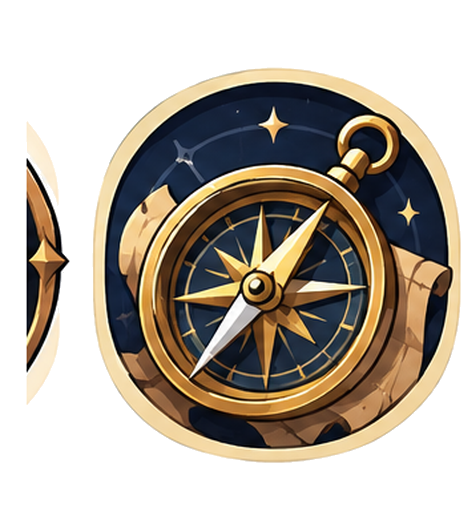
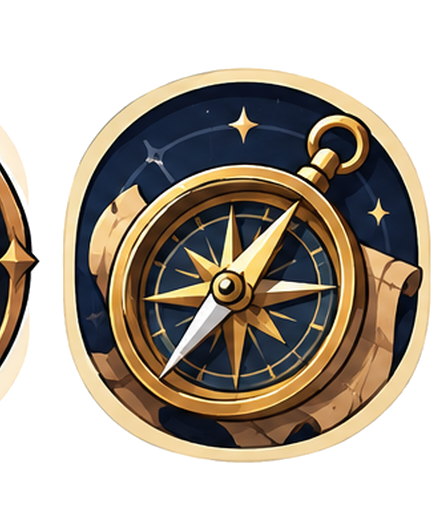
feat: 상세 페이지 리미티드 업적 표시 + legendary-explorer 이미지 크롭 수정
- 개요 탭: 트로피 아래에 리미티드 업적 카드 표시 (보유시)
- 업적 탭: 리미티드 업적 섹션 맨 앞에 추가
- legendary-explorer.png 왼쪽 돌출 부분 30px 크롭

diff --git a/app/ranking/person/[mainNickname]/page.tsx b/app/ranking/person/[mainNickname]/page.tsx
@@ -3,10 +3,12 @@
 import { useState, useEffect, useMemo } from "react";
 import { useParams, useRouter } from "next/navigation";
 import { computeAggregatedStats, loadGameRecords, loadNicknames, normalizeId, formatWinRate, getSeriesData } from "@/lib/stats";
-import type { NicknameEntry, PlayerStats, BadgeGrade, GameRecord } from "@/lib/types";
+import type { NicknameEntry, PlayerStats, BadgeGrade, GameRecord, LimitedTitle } from "@/lib/types";
 import { WinRateTrend } from "@/components/WinRateTrend";
 import { ChampionPortrait } from "@/components/ChampionPortrait";
 import { TrophyShowcase } from "@/components/TrophyBadge";
+import { LimitedTitleIcon, useIsDarkTheme } from "@/components/LimitedTitleBadge";
+import { LIMITED_TITLE_DEFS, getLimitedTitleDef } from "@/lib/limitedTitles";
 
 const POSITION_ORDER = ["탑", "정글", "미드", "원딜", "서포터"];
 const ROLE_COLORS: Record<string, string> = {
@@ -42,6 +44,14 @@ export default function PersonDetailPage() {
   const [tab, setTab] = useState<TabKey>("overview");
   const [loading, setLoading] = useState(true);
   const [winTrend, setWinTrend] = useState<{ date: string; rate: number; won: boolean }[]>([]);
+  const [limitedTitles, setLimitedTitles] = useState<LimitedTitle[]>([]);
+  const isDark = useIsDarkTheme();
+
+  useEffect(() => {
+    fetch("/api/limited-titles", { cache: "no-store" }).then(r => r.json()).then(d => {
+      setLimitedTitles(Array.isArray(d) ? d : []);
+    }).catch(() => {});
+  }, [mainNickname]);
 
   useEffect(() => {
     Promise.all([loadGameRecords(), loadNicknames()]).then(([records, nicknameEntries]) => {
@@ -203,6 +213,36 @@ export default function PersonDetailPage() {
           <TrophyShowcase trophies={entry.trophies!} />
         </div>
       )}
+
+      {(() => {
+        const myTitles = limitedTitles.filter(t => t.holder === entry.nickname);
+        if (myTitles.length === 0) return null;
+        return (
+          <div className="p-4 rounded-lg border" style={{ background: "var(--panel)", borderColor: "var(--border)" }}>
+            <div className="text-xs font-semibold mb-3" style={{ color: "var(--text-muted)" }}>리미티드 업적</div>
+            <div className="flex flex-wrap gap-3">
+              {myTitles.map(t => {
+                const def = getLimitedTitleDef(t.id);
+                if (!def) return null;
+                return (
+                  <div key={t.id} title={def.description}
+                    className="flex items-center gap-2 px-3 py-2 rounded-xl"
+                    style={{
+                      background: `linear-gradient(var(--panel-alt), var(--panel-alt)) padding-box, linear-gradient(135deg, ${def.color}, ${def.accentColor}) border-box`,
+                      border: "1.5px solid transparent",
+                    }}>
+                    <LimitedTitleIcon def={def} size={28} isDark={isDark} />
+                    <div>
+                      <div className="text-xs font-black" style={{ color: def.color }}>{def.name}</div>
+                      <div className="text-xs" style={{ color: "var(--text-dim)", fontSize: 10 }}>{t.date}</div>
+                    </div>
+                  </div>
+                );
+              })}
+            </div>
+          </div>
+        );
+      })()}
 
       <WinRateTrend data={winTrend} />
 
@@ -662,8 +702,43 @@ export default function PersonDetailPage() {
       );
     };
 
+    const myLimitedTitles = limitedTitles.filter(t => t.holder === entry.nickname);
+
     return (
       <div className="space-y-4">
+        {myLimitedTitles.length > 0 && (
+          <>
+            <div className="text-xs font-bold" style={{ color: "var(--accent)" }}>리미티드 업적 ({myLimitedTitles.length}개)</div>
+            <div className="grid grid-cols-1 md:grid-cols-2 gap-3">
+              {myLimitedTitles.map(t => {
+                const def = getLimitedTitleDef(t.id);
+                if (!def) return null;
+                return (
+                  <div key={t.id} className="p-4 rounded-lg border flex items-center gap-3"
+                    style={{
+                      background: `linear-gradient(var(--panel), var(--panel)) padding-box, linear-gradient(135deg, ${def.color}44, ${def.accentColor}44) border-box`,
+                      border: "1.5px solid transparent",
+                      boxShadow: `0 0 12px ${def.color}22`,
+                    }}>
+                    <div className="w-12 h-12 flex items-center justify-center rounded-full flex-shrink-0"
+                      style={{ background: def.color + "22", border: `1.5px solid ${def.color}66` }}>
+                      <LimitedTitleIcon def={def} size={32} isDark={isDark} />
+                    </div>
+                    <div className="flex-1 min-w-0">
+                      <div className="flex items-center gap-2 mb-0.5">
+                        <span className="font-bold" style={{ color: def.color }}>{def.name}</span>
+                        <span className="text-xs px-1.5 py-0.5 rounded font-bold"
+                          style={{ background: def.color + "22", color: def.color, border: `1px solid ${def.color}44` }}>리미티드</span>
+                      </div>
+                      <div className="text-xs" style={{ color: "var(--text-muted)" }}>{def.description}</div>
+                      <div className="text-xs mt-0.5" style={{ color: "var(--text-dim)" }}>달성일 {t.date}</div>
+                    </div>
+                  </div>
+                );
+              })}
+            </div>
+          </>
+        )}
         {earnedDefs.length > 0 && (
           <>
             <div className="text-xs font-bold" style={{ color: "var(--accent)" }}>보유 업적 ({earnedDefs.length}개)</div>
